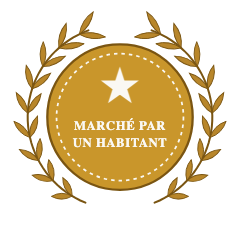
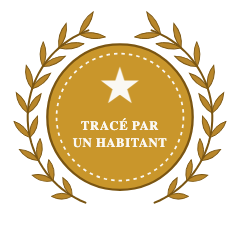
Appli (version de démonstration) v0.4 : « Tracé par un habitant » au lieu de « Marché par un habitant » ; phrase d'accueil « Des circuits validés par JW, certains tracés par des habitants » (José, 22/11)

Changed region(s): [[0.2917, 0.4958, 0.7, 0.5542]]

diff --git a/demo/appli/index.html b/demo/appli/index.html
@@ -475,7 +475,7 @@ select.champ,input.champ{width:100%;min-height:52px;border:1.5px solid var(--tra
           <div class="raccourcis" id="raccourcis"></div>
         </div>
         <div class="sources">
-          <div class="source"><h3>Ce que JW a en plus</h3><ul><li>Des arrêts racontés, pas des drapeaux nus.</li><li>Des tracés marchés par des habitants, validés par JW.</li><li>Les toilettes gratuites sur le trajet, comptées.</li></ul></div>
+          <div class="source"><h3>Ce que JW a en plus</h3><ul><li>Des arrêts racontés, pas des drapeaux nus.</li><li>Des circuits validés par JW, certains tracés par des habitants.</li><li>Les toilettes gratuites sur le trajet, comptées.</li></ul></div>
         </div>
       </div>
     </div>
@@ -642,7 +642,7 @@ const tuyauxHtml = (c, k) => tuyauxDe(c, k).map(tuyauHtml).join('');
 const couverture = c => c.arrets.find(a => a.tuile === c.couverture) || c.arrets.find(a => a.tuile != null);
 /* v0.4 : le sceau du circuit (champ `sceau` posé par fabriquer_page_v04.py) ; l’or seul pour un chemin d’habitant */
 const SCEAUX = {
-  habitant: {cl: 'sceau-hab', img: 'img/sceau-habitant.png', nom: 'Marché par un habitant', sens: 'Le chemin a été tracé par quelqu’un qui vit dans le quartier, puis validé par l’équipe JW.'},
+  habitant: {cl: 'sceau-hab', img: 'img/sceau-habitant.png', nom: 'Tracé par un habitant', sens: 'Le chemin a été tracé par quelqu’un qui vit dans le quartier, puis validé par l’équipe JW.'},
   jw: {cl: 'sceau-jw', img: 'img/sceau-jw.png', nom: 'Validé par JW', sens: 'Le parcours a été marché arrêt par arrêt et approuvé par l’équipe JW.'}};
 const sceauDe = c => SCEAUX[c.sceau] || SCEAUX.jw;
 const sceau = (c, grand) => { const s = sceauDe(c); return `<span class="sceau ${s.cl}${grand ? ' sceau-grand' : ''}"><img class="sceau-img" src="${s.img}" alt="" width="44" height="44">${s.nom}</span>`; };
@@ -683,7 +683,7 @@ function carteListe(c) {
   </article>`;
 }
 const compteTxt = L => { const h = L.filter(c => c.sceau === 'habitant').length;
-  return `<b>${L.length}</b> ${L.length > 1 ? 'circuits validés' : 'circuit validé'} par JW${h ? `, dont <b>${h}</b> ${h > 1 ? 'marchés' : 'marché'} par un habitant` : ''}`; };
+  return `<b>${L.length}</b> ${L.length > 1 ? 'circuits validés' : 'circuit validé'} par JW${h ? `, dont <b>${h}</b> ${h > 1 ? 'tracés' : 'tracé'} par un habitant` : ''}`; };
 const listeTxt = L => L.map(carteListe).join('') || '<div class="vide">Aucun circuit ne correspond. Essaie un autre mot, comme « Seine » ou « église ».</div>';
 function ecranExplorer() {
   const L = filtrer();
@@ -692,7 +692,7 @@ function ecranExplorer() {
     <div class="ent"><img class="logo-c" src="img/logo-jw.png" alt="journey walker" width="84" height="44"><img class="logo-s" src="img/logo-jw-sombre.png" alt="journey walker" width="84" height="44">
       <button class="ville" data-toast="Paris pour commencer. Ottawa, Saint-Malo et Québec viendront ensuite."><i></i>Paris</button></div>
     <h1 class="app-h1">Paris à pied, raconté par ceux qui y vivent</h1>
-    <p class="app-sous">Des circuits marchés par des habitants, validés par JW, avec une histoire à chaque arrêt.</p>
+    <p class="app-sous">Des circuits validés par JW, certains tracés par des habitants, avec une histoire à chaque arrêt.</p>
     <label class="recherche">${ic('explorer')}<input id="q" type="search" placeholder="Un quartier, un lieu, un arrêt…" value="${esc(S.q)}" aria-label="Chercher un circuit"></label>
     <div class="puces">${puce('tous', 'Tous')}${puce('court', "Moins d'une heure")}${puce('rd', 'Rive droite')}${puce('rg', 'Rive gauche')}${puce('theme', 'Thématiques')}</div>
     <div class="compte" id="compte">${compteTxt(L)}</div>
